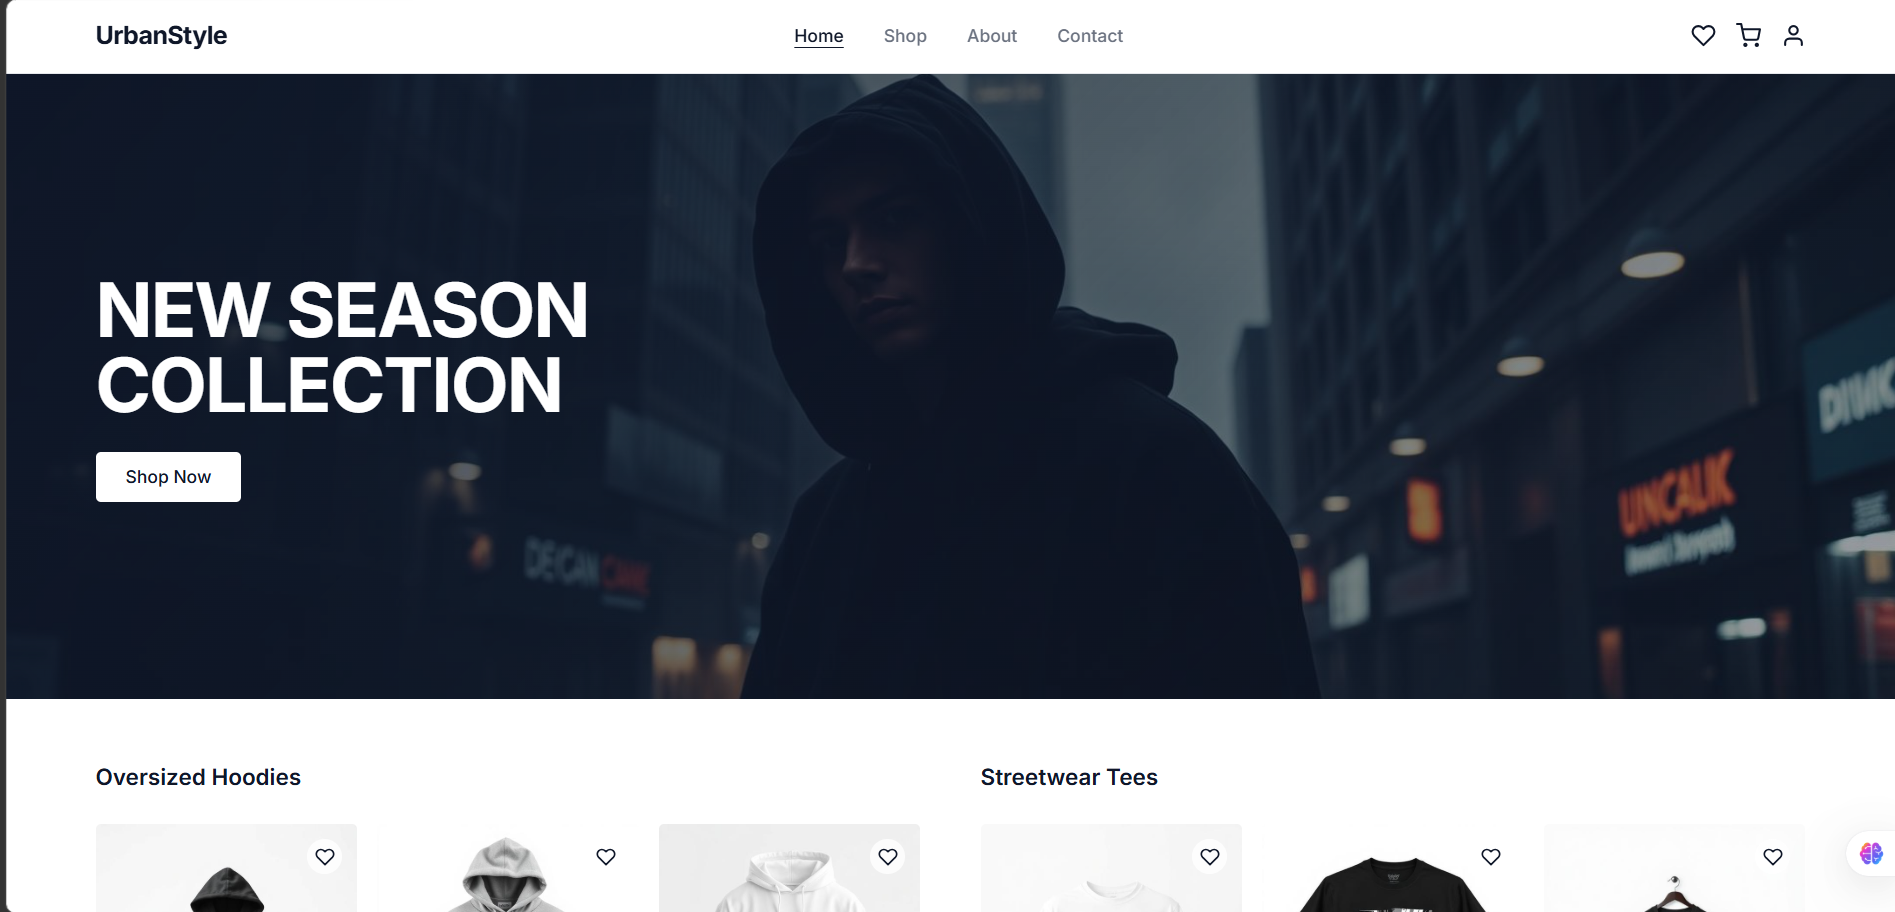
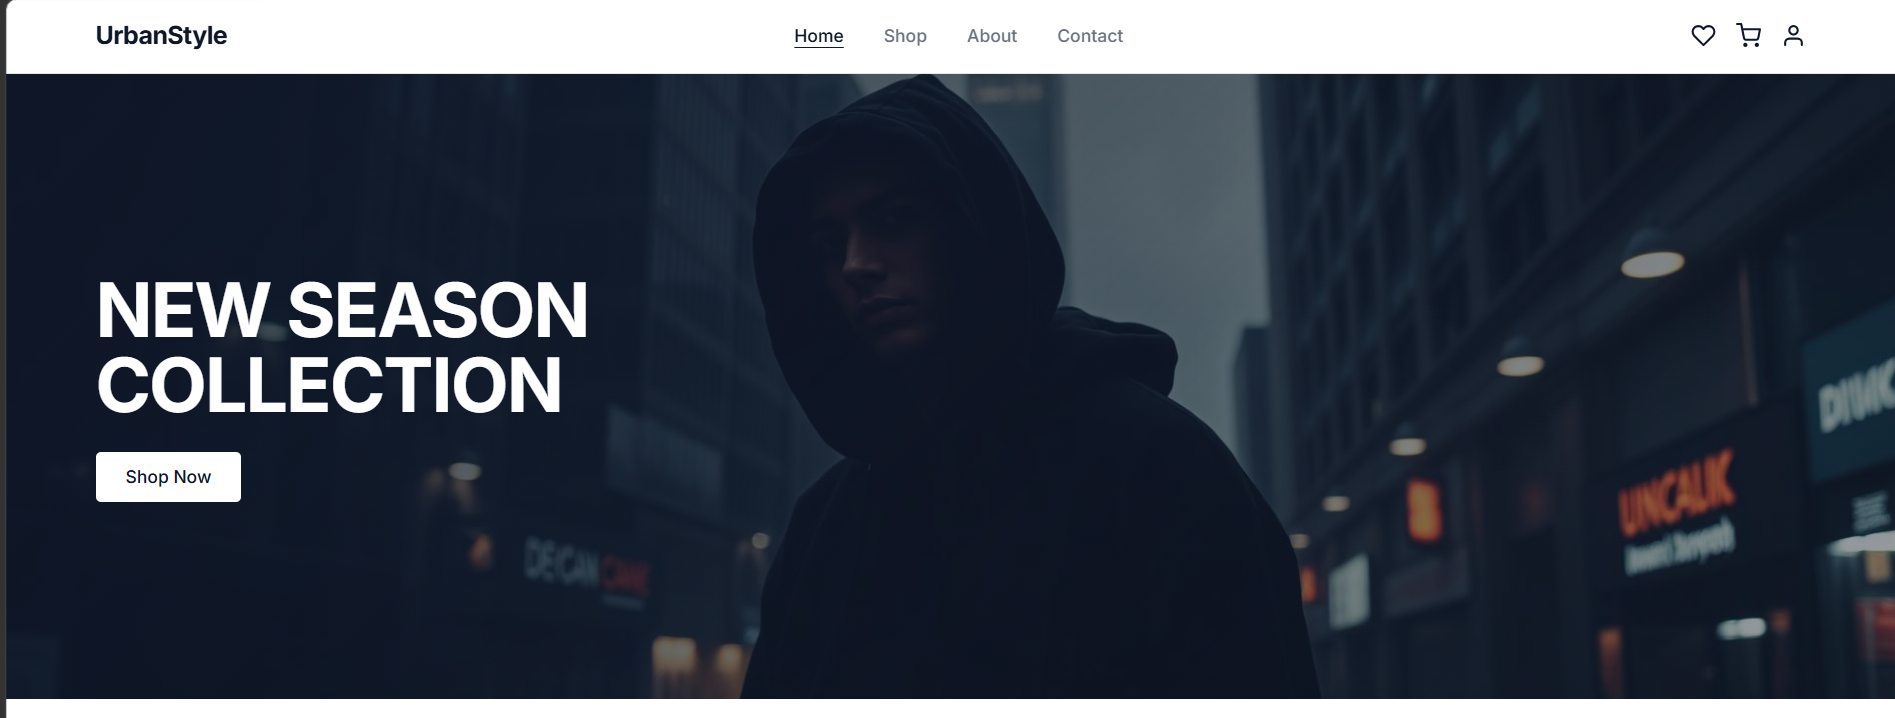
Added new project to portfolio

diff --git a/src/components/Landing.css b/src/components/Landing.css
@@ -36,9 +36,6 @@
 /*        SIDE PANELS            */
 /* ============================= */
 
-/* ============================= */
-/*        SIDE PANELS (Luxury)   */
-/* ============================= */
 
 .panel {
   position: absolute;
